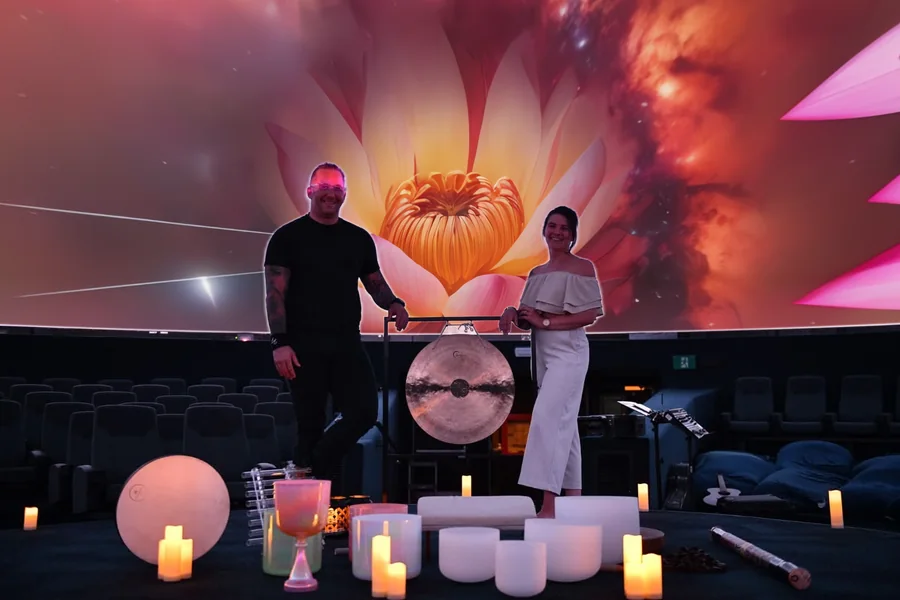
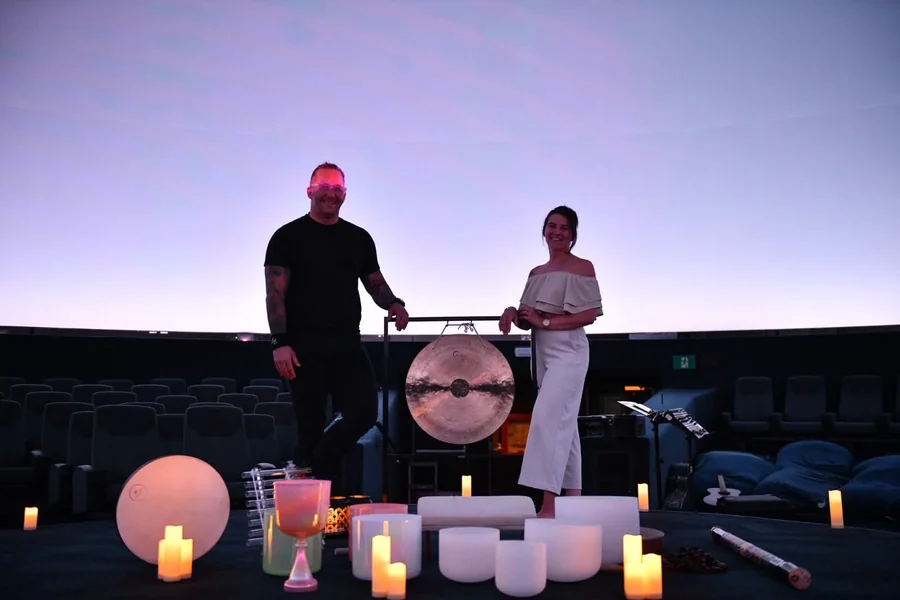
Use the real, unedited photo of Jeanine and Matt in the dome
Claude-Session: https://claude.ai/code/session_018t2n2rLBsEkN6wzFoFyfiq

diff --git a/index.html b/index.html
@@ -362,7 +362,7 @@ html:not(.sky-live) .rise{opacity:1;transform:none}
     <h2 class="rise">Jeanine &amp; Matt</h2>
     <p class="lead rise">This is the first time The Mindful Mandala Wellness has brought a sound bath into the Zeidler Dome at TELUS World of Science - Edmonton. Jeanine and Matt have built the hour together with one aim, that the room feels safe enough for you to fully let go.</p>
     <figure class="guides-photo rise">
-      <img src="jeanine-and-matt-dome.webp" srcset="jeanine-and-matt-dome-900.webp 900w, jeanine-and-matt-dome.webp 1600w" sizes="(max-width: 900px) 100vw, 860px" alt="Jeanine and Matt standing in the Zeidler Dome with the gong and crystal bowls, a red lotus opening across the dome above them" loading="lazy" decoding="async" width="1600" height="1066" />
+      <img src="jeanine-and-matt-dome.webp" srcset="jeanine-and-matt-dome-900.webp 900w, jeanine-and-matt-dome.webp 1600w" sizes="(max-width: 900px) 100vw, 860px" alt="Jeanine and Matt standing in the Zeidler Dome with the gong and crystal bowls, the dome glowing softly above them" loading="lazy" decoding="async" width="1600" height="1066" />
       <figcaption>Jeanine and Matt in the Zeidler Dome</figcaption>
     </figure>
     <div class="hosts rise">
